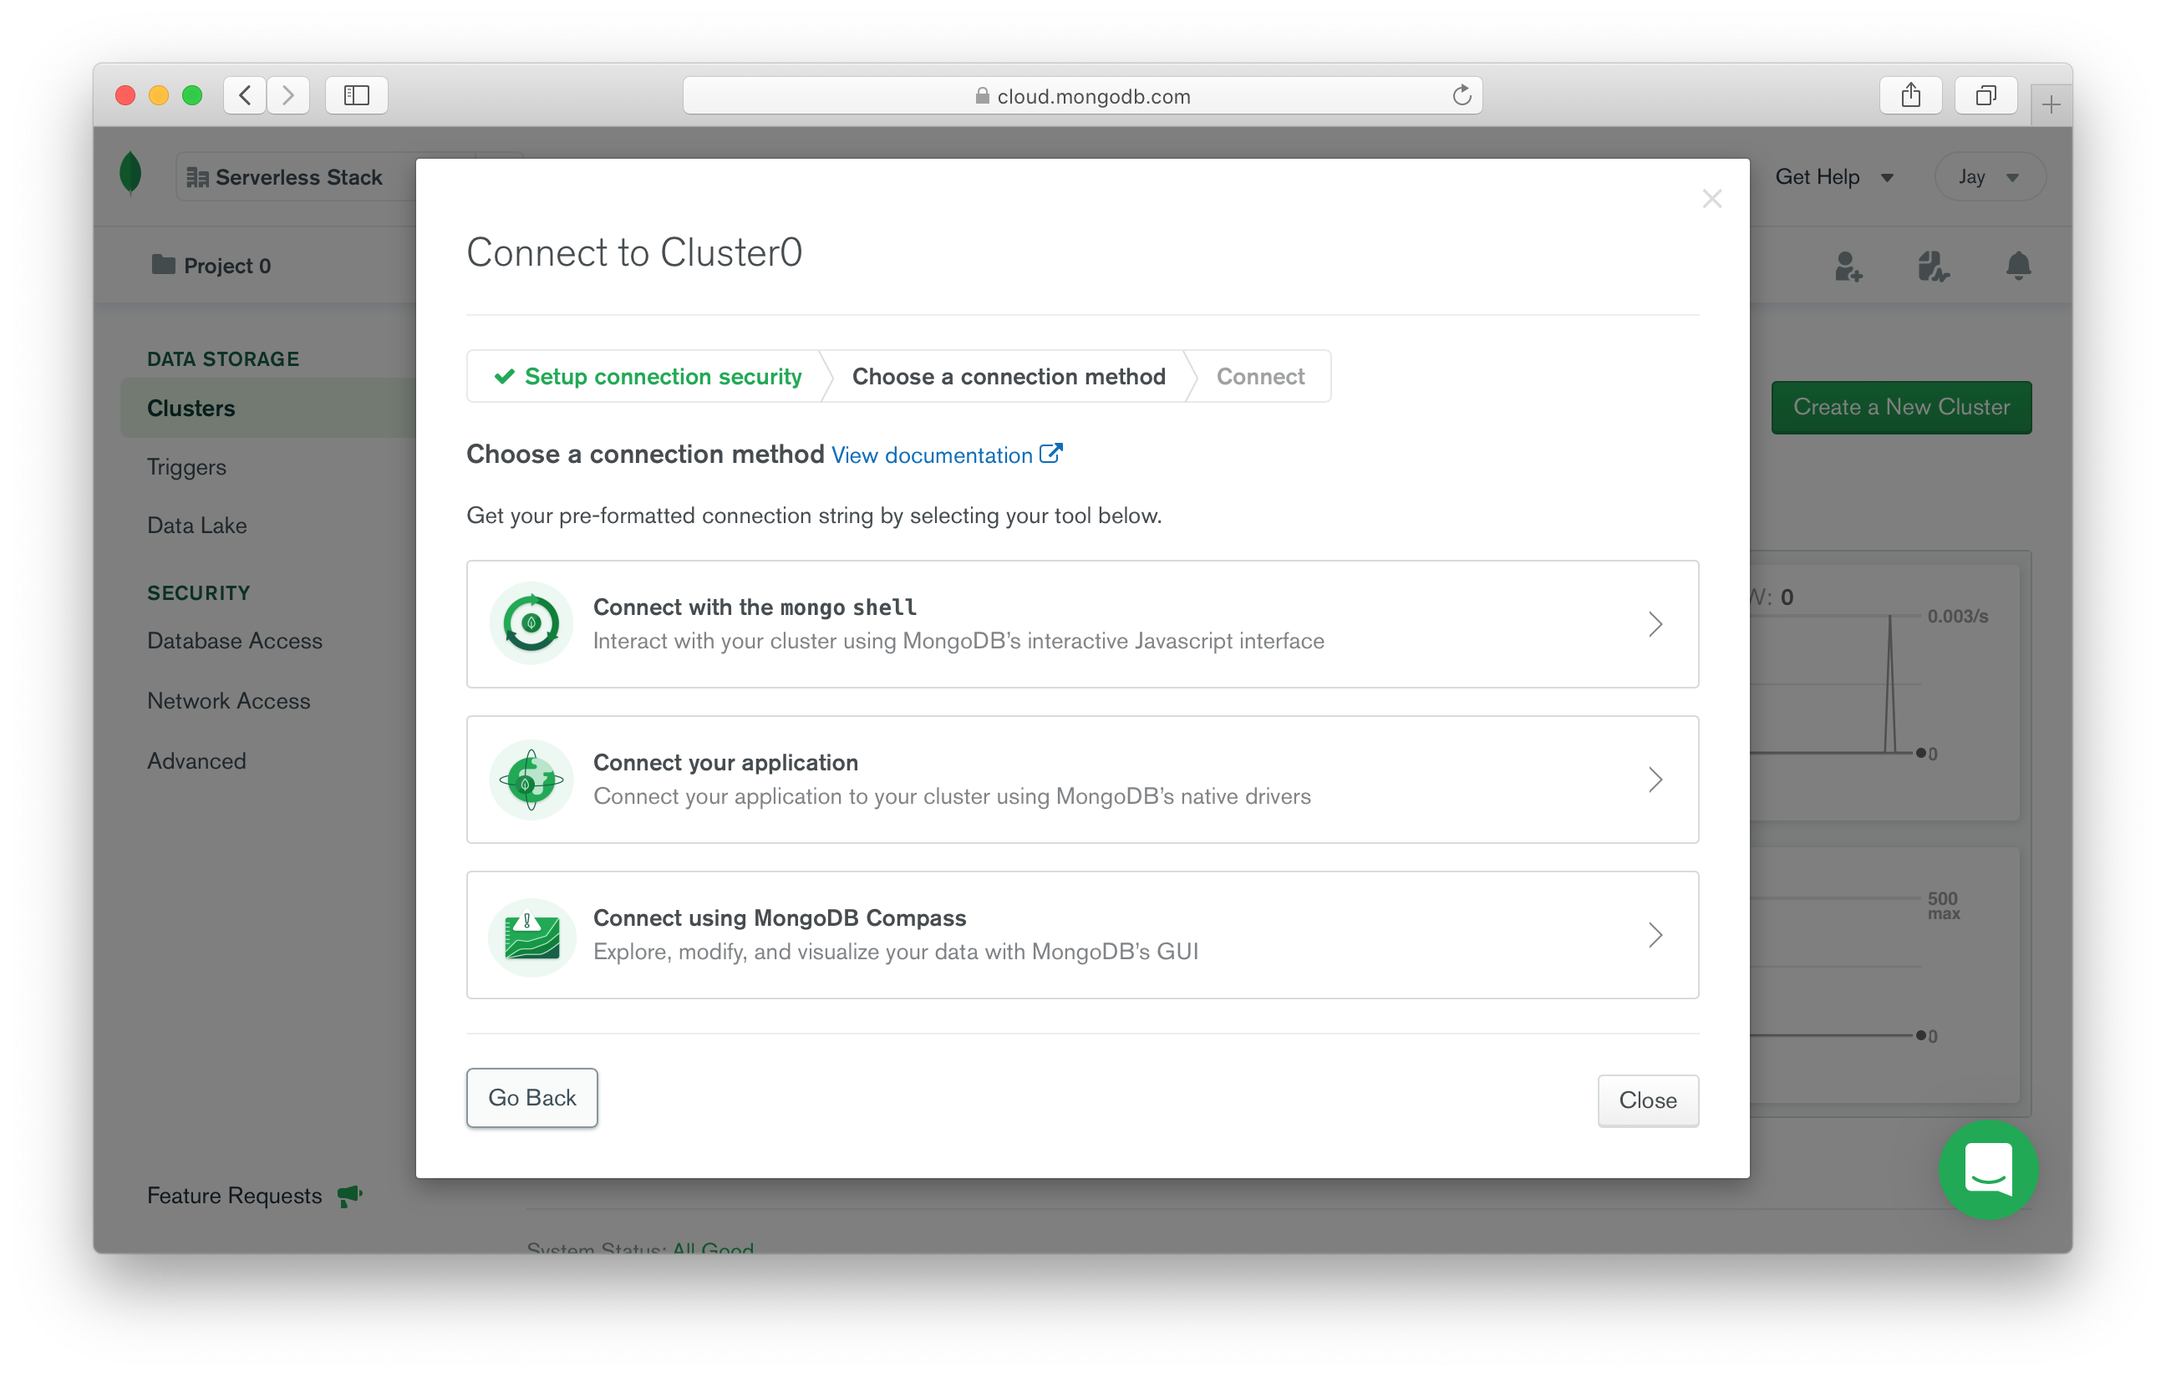
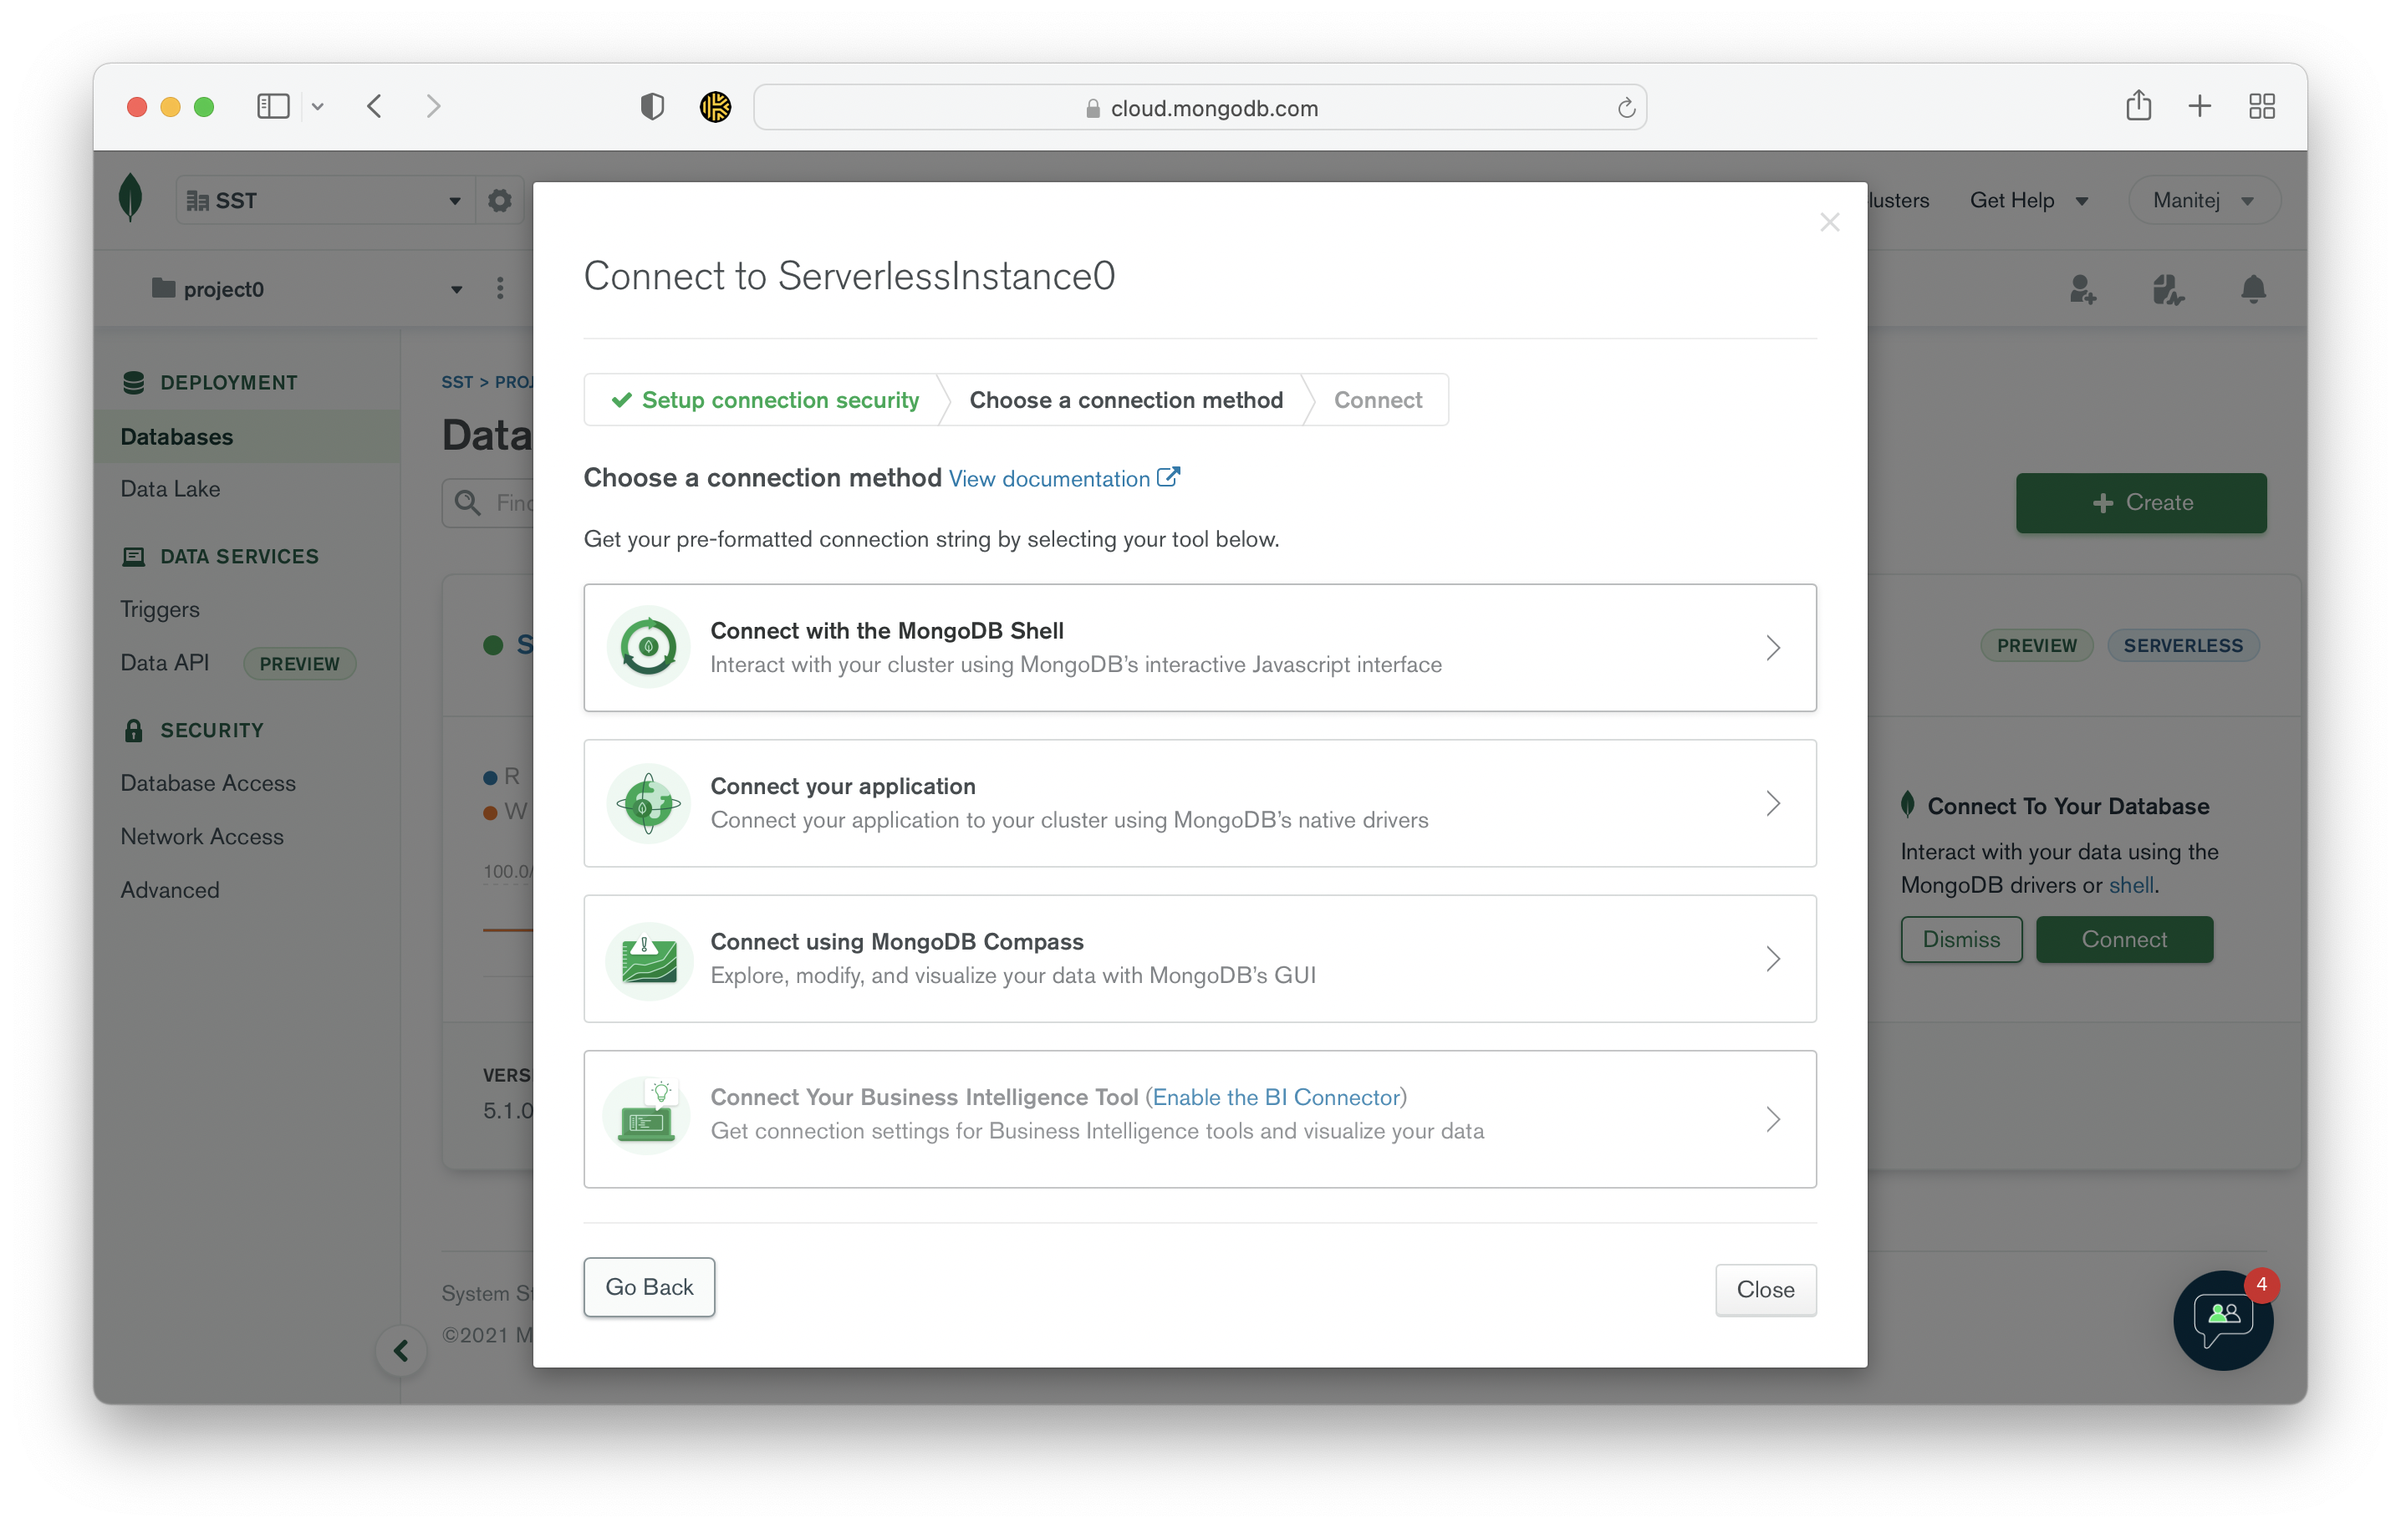
updated the example with mongodb serverless database

Changed region(s): [[0.0312, 0.0619, 0.9688, 0.9284]]

diff --git a/_examples/how-to-use-mongodb-in-your-serverless-app.md b/_examples/how-to-use-mongodb-in-your-serverless-app.md
@@ -6,14 +6,14 @@ date: 2021-06-04 00:00:00
 lang: en
 index: 2
 type: database
-description: In this example we will look at how to use MongoDB in your serverless app on AWS using Serverless Stack (SST). We'll be using the sst.Api construct to create a simple API that gets a list of movies.
+description: In this example we will look at how to use MongoDB in your serverless app on AWS using Serverless Stack (SST). We'll be using the sst.Api construct to create a simple API that gets a list of users.
 short_desc: Using MongoDB in a serverless API.
 repo: rest-api-mongodb
 ref: how-to-use-mongodb-in-your-serverless-app
 comments_id: how-to-use-mongodb-in-your-serverless-app/2406
 ---
 
-In this example we will look at how to use MongoDB in our serverless app using [Serverless Stack (SST)]({{ site.sst_github_repo }}). We'll be creating a simple API that returns a list of movies.
+In this example we will look at how to use MongoDB in our serverless app using [Serverless Stack (SST)]({{ site.sst_github_repo }}). We'll be creating a simple API that returns a list of users.
 
 ## Requirements
 
@@ -25,18 +25,18 @@ In this example we will look at how to use MongoDB in our serverless app using [
 
 {%change%} Let's start by creating an SST app.
 
-``` bash
+```bash
 $ npx create-serverless-stack@latest rest-api-mongodb
 $ cd rest-api-mongodb
 ```
 
 By default our app will be deployed to an environment (or stage) called `dev` and the `us-east-1` AWS region. This can be changed in the `sst.json` in your project root.
 
-``` json
+```json
 {
   "name": "rest-api-mongodb",
-  "stage": "dev",
-  "region": "us-east-1"
+  "region": "us-east-1",
+  "main": "stacks/index.js"
 }
 ```
 
@@ -58,7 +58,7 @@ First let's create the API endpoint and connect it to a Lambda function. We'll b
 
 {%change%} Replace the `stacks/MyStack.js` with the following.
 
-``` js
+```js
 import * as sst from "@serverless-stack/resources";
 
 export default class MyStack extends sst.Stack {
@@ -96,11 +96,23 @@ We are doing a couple of things here.
 - The function is not being bundled. This means that we are not using [esbuild](https://esbuild.github.io) to package it. This is because there are some MongoDB npm packages (that we'll be using later) that are not compatible with esbuild. So we'll be zipping up the entire `srcPath` directory and deploying it.
 - Finally, we are printing out the API endpoint in our outputs.
 
-## Setting up MongoDB 
+## What is MongoDB
+
+[MongoDB](https://www.mongodb.com/atlas/database) is the most advanced cloud database service on the market, with unmatched data distribution and mobility across AWS, Azure, and Google Cloud, built-in automation for resource and workload optimization, and so much more.
+
+## Setting up MongoDB
 
 Let's create our MongoDB database. Start by heading over to [MongoDB.com](https://www.mongodb.com) to create a free account.
 
-Then **create a new Cluster**. We are using the **free Shared Cluster** option for this example. Make sure to **select AWS** as the cloud provider and **pick a region** where you are deploying your SST app. In this example, we are using `us-east-1`.
+MongoDB Atlas can deploy two types of cloud databases: **serverless instances** and **clusters**.
+
+- **Serverless Instances** require minimal configuration. Atlas automatically scales the storage capacity, storage throughput, and computing power for a serverless instance seamlessly to meet your workload requirements. They always run the latest MongoDB version, and you only pay for the operations that you run.
+
+- **Clusters** give you more flexibility in choosing your database configuration. You can set the cluster tier, use advanced capabilities such as sharding and Continuous Cloud Backups, distribute your data to multiple regions and cloud providers, and scale your cluster on-demand. You can also enable autoscaling, but it requires preconfiguration. MongoDB bills clusters based on the deployment configuration and cluster tier.
+
+> If you want to know more on the deployment types click [here](https://docs.atlas.mongodb.com/choose-database-deployment-type/)
+
+Then **create a new Cluster**. We are using the new **Serverless Instance** option for this example. Make sure to **select AWS** as the cloud provider and **pick a region** where you are deploying your SST app. In this example, we are using `us-east-1`.
 
 Once our cluster is created, click **Add New Database User**.
 
@@ -118,9 +130,9 @@ For now we'll use the **Allow Access From Anywhere** option.
 
 ![Allow access to the database from anywhere](/assets/examples/rest-api-mongodb/allow-access-to-the-database-from-anywhere.png)
 
-Once those changes have been deployed, click the **Load Sample Dataset** to load a database of movies that we can test with.
+Once those changes have been deployed, click the **Browse collections** button and add some test data. I created a database named **demo** and inside the db, created a collection called **users** and added 2 sample documents.
 
-![Load sample dataset in database](/assets/examples/rest-api-mongodb/load-sample-dataset-in-database.png)
+![sample dataset in database](/assets/examples/rest-api-mongodb/sample-data-in-database.png)
 
 Finally, let's get the connection string to connect to our new MongoDB database.
 
@@ -134,8 +146,8 @@ Now copy the connection string.
 
 {%change%} Create a new `.env.local` file in your project root and add your connection string.
 
-``` bash
-MONGODB_URI=mongodb+srv://mongodb:<password>@cluster0.jicjv.mongodb.net/myFirstDatabase?retryWrites=true&w=majority
+```bash
+mongodb+srv://mongodb:<password>@serverlessinstance0.j9n6s.mongodb.net/myFirstDatabase?retryWrites=true&w=majority
 ```
 
 Make sure to replace `<password>` with the password that we had copied while adding a database user above.
@@ -154,7 +166,7 @@ We are now ready to add the function code to query our newly created MongoDB dat
 
 {%change%} Replace `src/lambda.js` with the following.
 
-``` js
+```js
 import * as mongodb from "mongodb";
 
 const MongoClient = mongodb.MongoClient;
@@ -172,7 +184,7 @@ async function connectToDatabase() {
   const client = await MongoClient.connect(process.env.MONGODB_URI);
 
   // Specify which database we want to use
-  cachedDb = await client.db("sample_mflix");
+  cachedDb = await client.db("demo");
 
   return cachedDb;
 }
@@ -189,22 +201,22 @@ export async function handler(event, context) {
   const db = await connectToDatabase();
 
   // Make a MongoDB MQL Query
-  const movies = await db.collection("movies").find({}).limit(20).toArray();
+  const users = await db.collection("users").find({}).toArray();
 
   return {
     statusCode: 200,
-    body: JSON.stringify(movies, null, 2),
+    body: JSON.stringify(users, null, 2),
   };
 }
 ```
 
 The first thing to note here is the `connectToDatabase` method. We use the connection string from the environment and connect to our sample database. But we save a reference to it. This allows us to reuse the connection as long as this Lambda function container is being used.
 
-The `handler` function should be pretty straightforward here. We connect to our database and query the `movies` collection in our database. And return 20 items. We then JSON stringify it and pretty print it.
+The `handler` function should be pretty straightforward here. We connect to our database and query the `users` collection in our database. And return 2 items. We then JSON stringify it and pretty print it.
 
 The line of note is:
 
-``` js
+```js
 context.callbackWaitsForEmptyEventLoop = false;
 ```
 
@@ -214,13 +226,13 @@ Let's install our MongoDB client. As mentioned at the beginning of this example,
 
 {%change%} Add the following to `src/package.json`.
 
-``` json
+```json
 {
   "name": "rest-api-mongodb-src",
   "version": "0.1.0",
   "private": true,
   "dependencies": {
-    "mongodb": "^3.6.9"
+    "mongodb": "^4.2.1"
   }
 }
 ```
@@ -229,7 +241,7 @@ Note, this isn't the same `package.json` in your project root.
 
 {%change%} And run the following inside the `src/` directory.
 
-``` bash
+```bash
 $ npm install
 ```
 
@@ -239,7 +251,7 @@ We are now ready to test our API!
 
 {%change%} SST features a [Live Lambda Development](https://docs.serverless-stack.com/live-lambda-development) environment that allows you to work on your serverless apps live.
 
-``` bash
+```bash
 $ npx sst start
 ```
 
@@ -262,12 +274,12 @@ dev-rest-api-mongodb-my-stack: deploying...
 Stack dev-rest-api-mongodb-my-stack
   Status: deployed
   Outputs:
-    ApiEndpoint: https://uzuwvg7khc.execute-api.us-east-1.amazonaws.com
+    ApiEndpoint: https://4gqqjg6ima.execute-api.us-east-1.amazonaws.com/
 ```
 
-The `ApiEndpoint` is the API we just created. Let's test our endpoint. If you open the endpoint URL in your browser, you should see a list of movies being printed out.
+The `ApiEndpoint` is the API we just created. Let's test our endpoint. If you open the endpoint URL in your browser, you should see a list of users being printed out.
 
-![JSON list of movies](/assets/examples/rest-api-mongodb/json-list-of-movies.png)
+![JSON list of users](/assets/examples/rest-api-mongodb/json-list-of-users.png)
 
 ## Making changes
 
@@ -275,44 +287,39 @@ Now let's make a quick change to our database query.
 
 {%change%} Replace the following line in `src/lambda.js`.
 
-``` js
-  const movies = await db.collection("movies").find({}).limit(20).toArray();
+```js
+const users = await db.collection("users").find({}).toArray();
 ```
 
 {%change%} With:
 
-``` js
-  const movies = await db
-    .collection("movies")
-    .find({}, { projection: { title: 1, plot: 1, metacritic: 1, cast: 1 } })
-    .sort({ metacritic: -1 })
-    .limit(20)
-    .toArray();
+```js
+const users = await db.collection("users").find({}).limit(1).toArray();
 ```
 
-This will sort our movies list by the ones that have the highest Metacritic score. So if you refresh your browser, you should see a different set of movies at the top.
+This will limit the no of users to 1 in the response object.
 
-
-![JSON list of top movies](/assets/examples/rest-api-mongodb/json-list-of-top-movies.png)
+![JSON list of limit 1 users](/assets/examples/rest-api-mongodb/json-list-of-limit-1.png)
 
 ## Deploying to prod
 
 {%change%} To wrap things up we'll deploy our app to prod.
 
-``` bash
+```bash
 $ npx sst deploy --stage prod
 ```
+
 This allows us to separate our environments, so when we are working in `dev`, it doesn't break the API for our users.
 
 ## Cleaning up
 
 Finally, you can remove the resources created in this example using the following commands.
 
-``` bash
+```bash
 $ npx sst remove
 $ npx sst remove --stage prod
 ```
 
 ## Conclusion
 
-And that's it! We've got a serverless API connected to a MongoDB database. We also have a local development environment, to test and make changes. And it's deployed to production as well, so you can share it with your users. Check out the repo below for the code we used in this example. And leave a comment if you have any questions!
+And that's it! We've got a serverless API connected to a MongoDB serverless database. We also have a local development environment, to test and make changes. And it's deployed to production as well, so you can share it with your users. Check out the repo below for the code we used in this example. And leave a comment if you have any questions!
